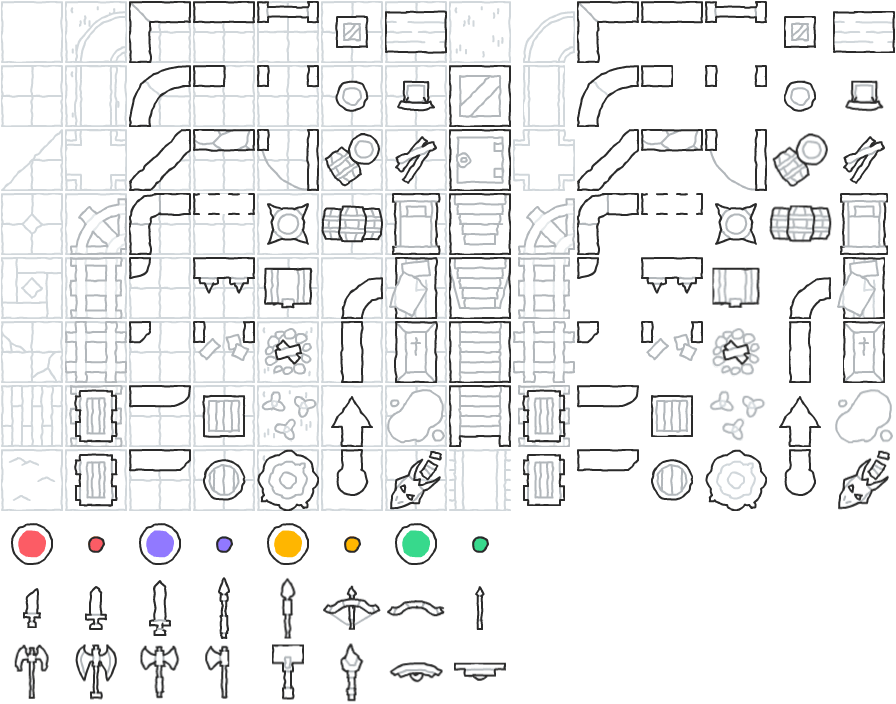
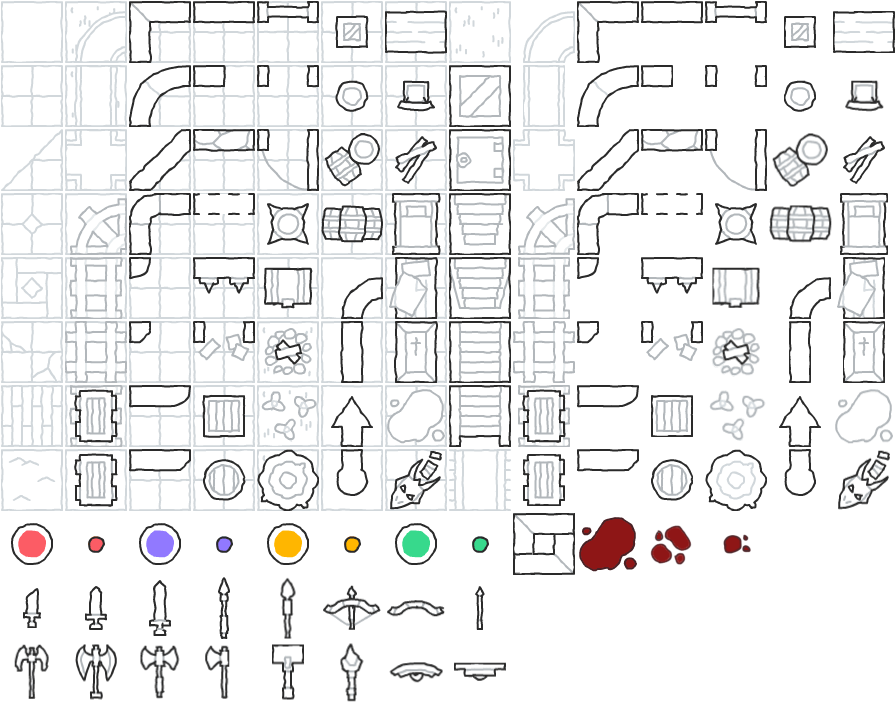
Add cleaning action with blood pools and webs

Changed region(s): [[0.5625, 0.7188, 0.7812, 0.8438], [0.8125, 0.75, 0.8438, 0.7812]]

diff --git a/src/js/map/tile/Tutorial.js b/src/js/map/tile/Tutorial.js
@@ -5,36 +5,28 @@ import MathUtil from "../../util/MathUtil";
 //import MapGeneration from "../mapGeneration/MapGeneration";
 import RectangularRoom from "./room/RectangularRoom";
 
-export default class BasicDungeon extends GameMap {
+export default class Tutorial extends GameMap {
     constructor(width, height, args = {}) {
         const level = args.level || 1;
-        const name = "basic-dungeon-" + level;
+        const name = "tutorial-" + level;
         super(name, width, height);
 
-        this.maxRooms = args.maxRooms || 6;
+        this.maxRooms = args.maxRooms || 1;
         this.roomMinSize = args.roomMinSize || 8;
         this.roomMaxSize = args.roomMaxSize || 8;
         this.level = level;
 
         this.minMonstersByFloor = [
-            {level: 1, amount: 0},
-            {level: 4, amount: 1},
-            {level: 7, amount: 2}
-        ]
+            {level: 1, amount: 2}
+        ];
         this.maxMonstersByFloor = [
-            {level: 1, amount: 2},
-            {level: 4, amount: 3},
-            {level: 7, amount: 4}
+            {level: 1, amount: 2}
         ];
         this.minItemsByFloor = [
-            {level: 1, amount: 0},
-            {level: 4, amount: 1},
-            {level: 6, amount: 2}
+            {level: 1, amount: 2}
         ];
         this.maxItemsByFloor = [
-            {level: 1, amount: 2},
-            {level: 4, amount: 3},
-            {level: 6, amount: 5}
+            {level: 1, amount: 2}
         ];
     }
 
@@ -68,7 +60,6 @@ export default class BasicDungeon extends GameMap {
     create(previousMapName, stairsInteractable) {
         super.create();
 
-        //const floorEntity = entityLoader.createFromTemplate("floor", {components: {position: {x: 0, y: 0}}});
         const wallEntity = entityLoader.createFromTemplate("wall", {components: {position: {x: 0, y: 0}}});
         // Pre-fill with floor and walls
         for (let j = 0; j < this.height; j++) {
@@ -84,26 +75,7 @@ export default class BasicDungeon extends GameMap {
             const roomWidth = MathUtil.randomInt(this.roomMinSize, this.roomMaxSize);
             const roomHeight = MathUtil.randomInt(this.roomMinSize, this.roomMaxSize);
 
-            let x = 10 * i + 1;
-            let y = 1;
-
-            if (i >= (this.maxRooms / 2)) {
-                y = 11;
-                x -= 30;
-            }
-
-            const newRoom = new RectangularRoom(x, y, roomWidth, roomHeight);
-            let intersectsOtherRoom = false;
-            for (const room of rooms) {
-                if (newRoom.intersects(room)) {
-                    intersectsOtherRoom = true;
-                    break;
-                }
-            }
-
-            if (intersectsOtherRoom) {
-                continue;
-            }
+            const newRoom = new RectangularRoom(1, 1, roomWidth, roomHeight);
 
             newRoom.createRoom(this);
 
@@ -116,6 +88,22 @@ export default class BasicDungeon extends GameMap {
                 }
 
                 this.tiles[centerX][0] = entityLoader.createFromTemplate("stairs", {components: {position: {x: centerX, y: 0}}});
+
+                const stairsDownX = MathUtil.randomInt(newRoom.x1 + 2, newRoom.x2 - 2);
+                const stairsDownY = MathUtil.randomInt(newRoom.y1 + 2, newRoom.y2 - 2);
+                this.tiles[stairsDownX][stairsDownY] = entityLoader.createFromTemplate("stairs_down", {components: {position: {x: stairsDownX, y: stairsDownY}}});
+
+                let trapDoorX = stairsDownX;
+                let trapDoorY = stairsDownY;
+
+                while (trapDoorX === stairsDownX && trapDoorY === stairsDownY) {
+                    trapDoorX = MathUtil.randomInt(newRoom.x1 + 2, newRoom.x2 - 2);
+                    trapDoorY = MathUtil.randomInt(newRoom.y1 + 2, newRoom.y2 - 2);
+
+                    if (trapDoorX !== stairsDownX || trapDoorY !== stairsDownY) {
+                        this.tiles[trapDoorX][trapDoorY] = entityLoader.createFromTemplate("trap_door", {components: {position: {x: trapDoorX, y: trapDoorY}}});
+                    }
+                }
 
                 // if (engine.player) {
                 //     const playerPosition = engine.player.getComponent("position");
@@ -141,8 +129,8 @@ export default class BasicDungeon extends GameMap {
         //this.tiles[lastRoomCenterX][lastRoomCenterY] = entityLoader.createFromTemplate("stairs_north", {components: {position: {x: lastRoomCenterX, y: lastRoomCenterY}, stairsInteractable: {generator: "basic-dungeon"}}});
 
         for (const room of rooms) {
-            room.placeEntities("basic-dungeon", this.level, this.getFloorAmount(this.minMonstersByFloor), this.getFloorAmount(this.maxMonstersByFloor));
-            room.placeItems("basic-dungeon", this.level, this.getFloorAmount(this.minItemsByFloor), this.getFloorAmount(this.maxItemsByFloor));
+            room.placeEntities("tutorial", this.level, this.getFloorAmount(this.minMonstersByFloor), this.getFloorAmount(this.maxMonstersByFloor));
+            room.placeItems("tutorial", this.level, this.getFloorAmount(this.minItemsByFloor), this.getFloorAmount(this.maxItemsByFloor));
         }
     }
 }

diff --git a/src/js/map/tile/room/RectangularRoom.js b/src/js/map/tile/room/RectangularRoom.js
@@ -37,11 +37,20 @@ export default class RectangularRoom extends Room {
         const bottom = Math.min(gameMap.height, this.y2 + 1);
 
         const floorEntity = entityLoader.createFromTemplate("floor", {components: {position: {x: 0, y: 0}}});
+        const floorEntityCenter = entityLoader.createFromTemplate("floor_center", {components: {position: {x: 0, y: 0}}});
+        const floorEntityCracked = entityLoader.createFromTemplate("floor_cracked", {components: {position: {x: 0, y: 0}}});
         const wallEntity = entityLoader.createFromTemplate("wall", {components: {position: {x: 0, y: 0}}});
         for (let i = left; i < right; i++) {
             for (let j = top; j < bottom; j++) {
-
-                const floor = floorEntity.clone();
+                let floor;
+                const rand = Math.random();
+                if (rand < .06) {
+                    floor = floorEntityCracked.clone();
+                } else if (rand < .1) {
+                    floor = floorEntityCenter.clone();
+                } else {
+                    floor = floorEntity.clone();
+                }
                 floor.getComponent("position").moveTo(i, j);
                 gameMap.tiles[i][j] = floor;
 
@@ -59,8 +68,8 @@ export default class RectangularRoom extends Room {
         }
     }
 
-    placeEntities(name, level, maxMonsters) {
-        const numMonsters = MathUtil.randomInt(0, maxMonsters);
+    placeEntities(name, level, min, max) {
+        const numMonsters = MathUtil.randomInt(min, max);
         for (let i = 0; i < numMonsters; i++) {
             const x = MathUtil.randomInt(this.x1 + 1, this.x2 - 1);
             const y = MathUtil.randomInt(this.y1 + 1, this.y2 - 1);
@@ -72,7 +81,7 @@ export default class RectangularRoom extends Room {
                 const actorId = chanceLoader.getActorForLevel(name, level);
                 const actor = entityLoader.createFromTemplate(actorId, position);
 
-                engine.gameMap.actors.push(actor);
+                engine.gameMap.addActor(actor);
             }
         }
     }

diff --git a/src/js/actions/actionWithDirection/BumpAction.js b/src/js/actions/actionWithDirection/BumpAction.js
@@ -3,6 +3,7 @@ import UnableToPerformAction from "../UnableToPerformAction";
 import engine from "../../Engine";
 import MovementAction from "./MovementAction";
 import MeleeAction from "./MeleeAction";
+import CleanAction from "./CleanAction";
 
 export default class BumpAction extends ActionWithDirection {
     constructor(entity, dx = 0, dy = 0) {
@@ -21,17 +22,22 @@ export default class BumpAction extends ActionWithDirection {
         const blockingActor = engine.gameMap.getBlockingActorAtLocation(destX, destY);
         if (blockingActor) {
             return new MeleeAction(this.entity, this.dx, this.dy).perform();
+        }
+
+        const cleanableActor = engine.gameMap.getCleanableActorAtLocation(destX, destY);
+        if (cleanableActor) {
+            return new CleanAction(this.entity, this.dx, this.dy).perform();
+        }
+
+        const tileX = engine.gameMap.tiles[destX];
+        if (tileX) {
+            // const tileXY = tileX[destY];
+            // if (tileXY) {
+            //     // TODO: Open or other actions
+            // }
+            return new MovementAction(this.entity, this.dx, this.dy).perform();
         } else {
-            const tileX = engine.gameMap.tiles[destX];
-            if (tileX) {
-                // const tileXY = tileX[destY];
-                // if (tileXY) {
-                //     // TODO: Open or other actions
-                // }
-                return new MovementAction(this.entity, this.dx, this.dy).perform();
-            } else {
-                return new UnableToPerformAction(this.entity, "Nowhere to move.");
-            }
+            return new UnableToPerformAction(this.entity, "Nowhere to move.");
         }
     }
 }

diff --git a/src/js/actions/actionWithDirection/CleanAction.js b/src/js/actions/actionWithDirection/CleanAction.js
@@ -1,0 +1,38 @@
+import ActionWithDirection from "./_ActionWithDirection";
+import UnableToPerformAction from "../UnableToPerformAction";
+import engine from "../../Engine";
+import entityLoader from "../../entity/EntityLoader";
+
+export default class CleanAction extends ActionWithDirection {
+    constructor(entity, dx = 0, dy = 0) {
+        super(entity, dx, dy);
+    }
+
+    perform() {
+        const position = this.entity.getComponent("position");
+        if (!position) {
+            return new UnableToPerformAction(this.entity, "Entity doesn't have a position.");
+        }
+
+        const destX = position.x + this.dx;
+        const destY = position.y + this.dy;
+
+        const cleanableActor = engine.gameMap.getCleanableActorAtLocation(destX, destY);
+        if (cleanableActor) {
+            const cleanable = cleanableActor.getComponent("cleanable");
+            if (cleanable) {
+                const decreasesTo = cleanable.decreasesTo;
+                if (decreasesTo) {
+                    const cleanablePosition = cleanableActor.getComponent("position");
+
+                    const changedEntity = entityLoader.createFromTemplate(decreasesTo, {components: {position: {x: cleanablePosition.x, y: cleanablePosition.y}}});
+                    engine.gameMap.addActor(changedEntity);
+                }
+
+                engine.gameMap.removeActor(cleanableActor);
+            }
+        } else {
+            return new UnableToPerformAction(this.entity, "There's nothing to clean there!");
+        }
+    }
+}

diff --git a/src/js/map/tile/GameMap.js b/src/js/map/tile/GameMap.js
@@ -127,6 +127,10 @@ export default class GameMap {
         }
     }
 
+    addActor(actor) {
+        this.actors.push(actor);
+    }
+
     save() {
         if (engine.gameMap !== this && this.saveCache) {
             return this.saveCache;
@@ -206,7 +210,7 @@ export default class GameMap {
         const actors = json.actors;
         for (const actor of actors) {
             const createdActor = entityLoader.create(actor);
-            this.actors.push(createdActor);
+            this.addActor(createdActor);
         }
 
         const items = json.items;
@@ -314,12 +318,28 @@ export default class GameMap {
         return blockingActor;
     }
 
+    getCleanableActorAtLocation(x, y) {
+        let cleanableActor = null;
+        for (const actor of this.actors) {
+            const position = actor.getComponent("position");
+            if (position && x === position.x && y === position.y) {
+                const component = actor.getComponent("cleanable");
+                if (component) {
+                    cleanableActor = actor;
+                    break;
+                }
+            }
+        }
+
+        return cleanableActor;
+    }
+
     addPlayer(x, y) {
         if (!engine.player) {
             engine.player = entityLoader.createFromTemplate("player");
         }
 
-        this.actors.push(engine.player);
+        this.addActor(engine.player);
 
         const playerPosition = engine.player.getComponent("position");
         playerPosition.moveTo(x, y);

diff --git a/src/index.js b/src/index.js
@@ -4,12 +4,12 @@ import DefaultPlayerEventHandler from "./js/event/DefaultPlayerEventHandler";
 import messageManager from "./js/message/MessageManager";
 import entityLoader from "./js/entity/EntityLoader";
 import sceneState from "./js/SceneState";
-import BasicDungeon from "./js/map/tile/BasicDungeon";
 import viewInfo from "./js/ui/ViewInfo";
+import Tutorial from "./js/map/tile/Tutorial";
 
 (function () {
     function init() {
-        engine.gameMap = new BasicDungeon(31, 21);
+        engine.gameMap = new Tutorial(11, 11);
         engine.initTextures();
         engine.player = entityLoader.createFromTemplate("player", {components: {position: {x: 0, y: 0}}});
 
@@ -33,8 +33,6 @@ import viewInfo from "./js/ui/ViewInfo";
         //     }
         // }
         engine.gameMap.actors.push(engine.player);
-        // engine.gameMap.placeEntities("cave", 1, .03, 5);
-        // engine.gameMap.placeItems("cave", 1, .03, 5);
 
         engine.eventHandler = new DefaultPlayerEventHandler();
 

diff --git a/src/js/components/Cleanable.js b/src/js/components/Cleanable.js
@@ -1,0 +1,33 @@
+import _Component from "./_Component";
+
+export default class Cleanable extends _Component {
+    constructor(args = {}) {
+        super(args, "cleanable");
+
+        this.decreasesTo = "";
+        this.increasesTo = "";
+
+        if (this.hasComponent()) {
+            this.decreasesTo = this.loadArg("decreasesTo", "");
+            this.increasesTo = this.loadArg("increasesTo", "");
+        }
+    }
+
+    save() {
+        if (this.cachedSave) {
+            return this.cachedSave;
+        }
+
+        const saveJson = {
+            cleanable: {}
+        };
+
+        saveJson.cleanable.decreasesTo = this.decreasesTo;
+        saveJson.cleanable.increasesTo = this.increasesTo;
+
+        this.cachedSave = saveJson;
+        return saveJson;
+    }
+
+    perform() {}
+}

diff --git a/src/js/map/mapGeneration/ChanceLoader.js b/src/js/map/mapGeneration/ChanceLoader.js
@@ -1,6 +1,7 @@
 import entityGroups from "../../../json/generation/_entityGroups.json";
 import itemGroups from "../../../json/generation/_itemGroups.json";
 import basicDungeon from "../../../json/generation/basic-dungeon.json";
+import tutorial from "../../../json/generation/tutorial.json";
 import MathUtil from "../../util/MathUtil";
 
 class ChanceLoader {
@@ -13,6 +14,7 @@ class ChanceLoader {
         this.loadItemGroups(itemGroups);
 
         this.loadGenerator("basic-dungeon", basicDungeon);
+        this.loadGenerator("tutorial", tutorial);
     }
 
     loadEntityGroups(entityGroups) {

diff --git a/src/js/components/ComponenetLoader.js b/src/js/components/ComponenetLoader.js
@@ -2,6 +2,7 @@ import AIDead from "./ai/AIDead";
 // import AIMeleeChase from "./ai/AIMeleeChase";
 import BlocksFov from "./BlocksFov";
 import BlocksMovement from "./BlocksMovement";
+import Cleanable from "./Cleanable";
 import Faction from "./Faction";
 import Fighter from "./Fighter";
 import Fov from "./Fov";
@@ -23,6 +24,7 @@ class ComponentLoader {
         //
         this.load(new BlocksFov());
         this.load(new BlocksMovement());
+        this.load(new Cleanable());
         this.load(new Faction());
         this.load(new Fighter());
         this.load(new Fov());
